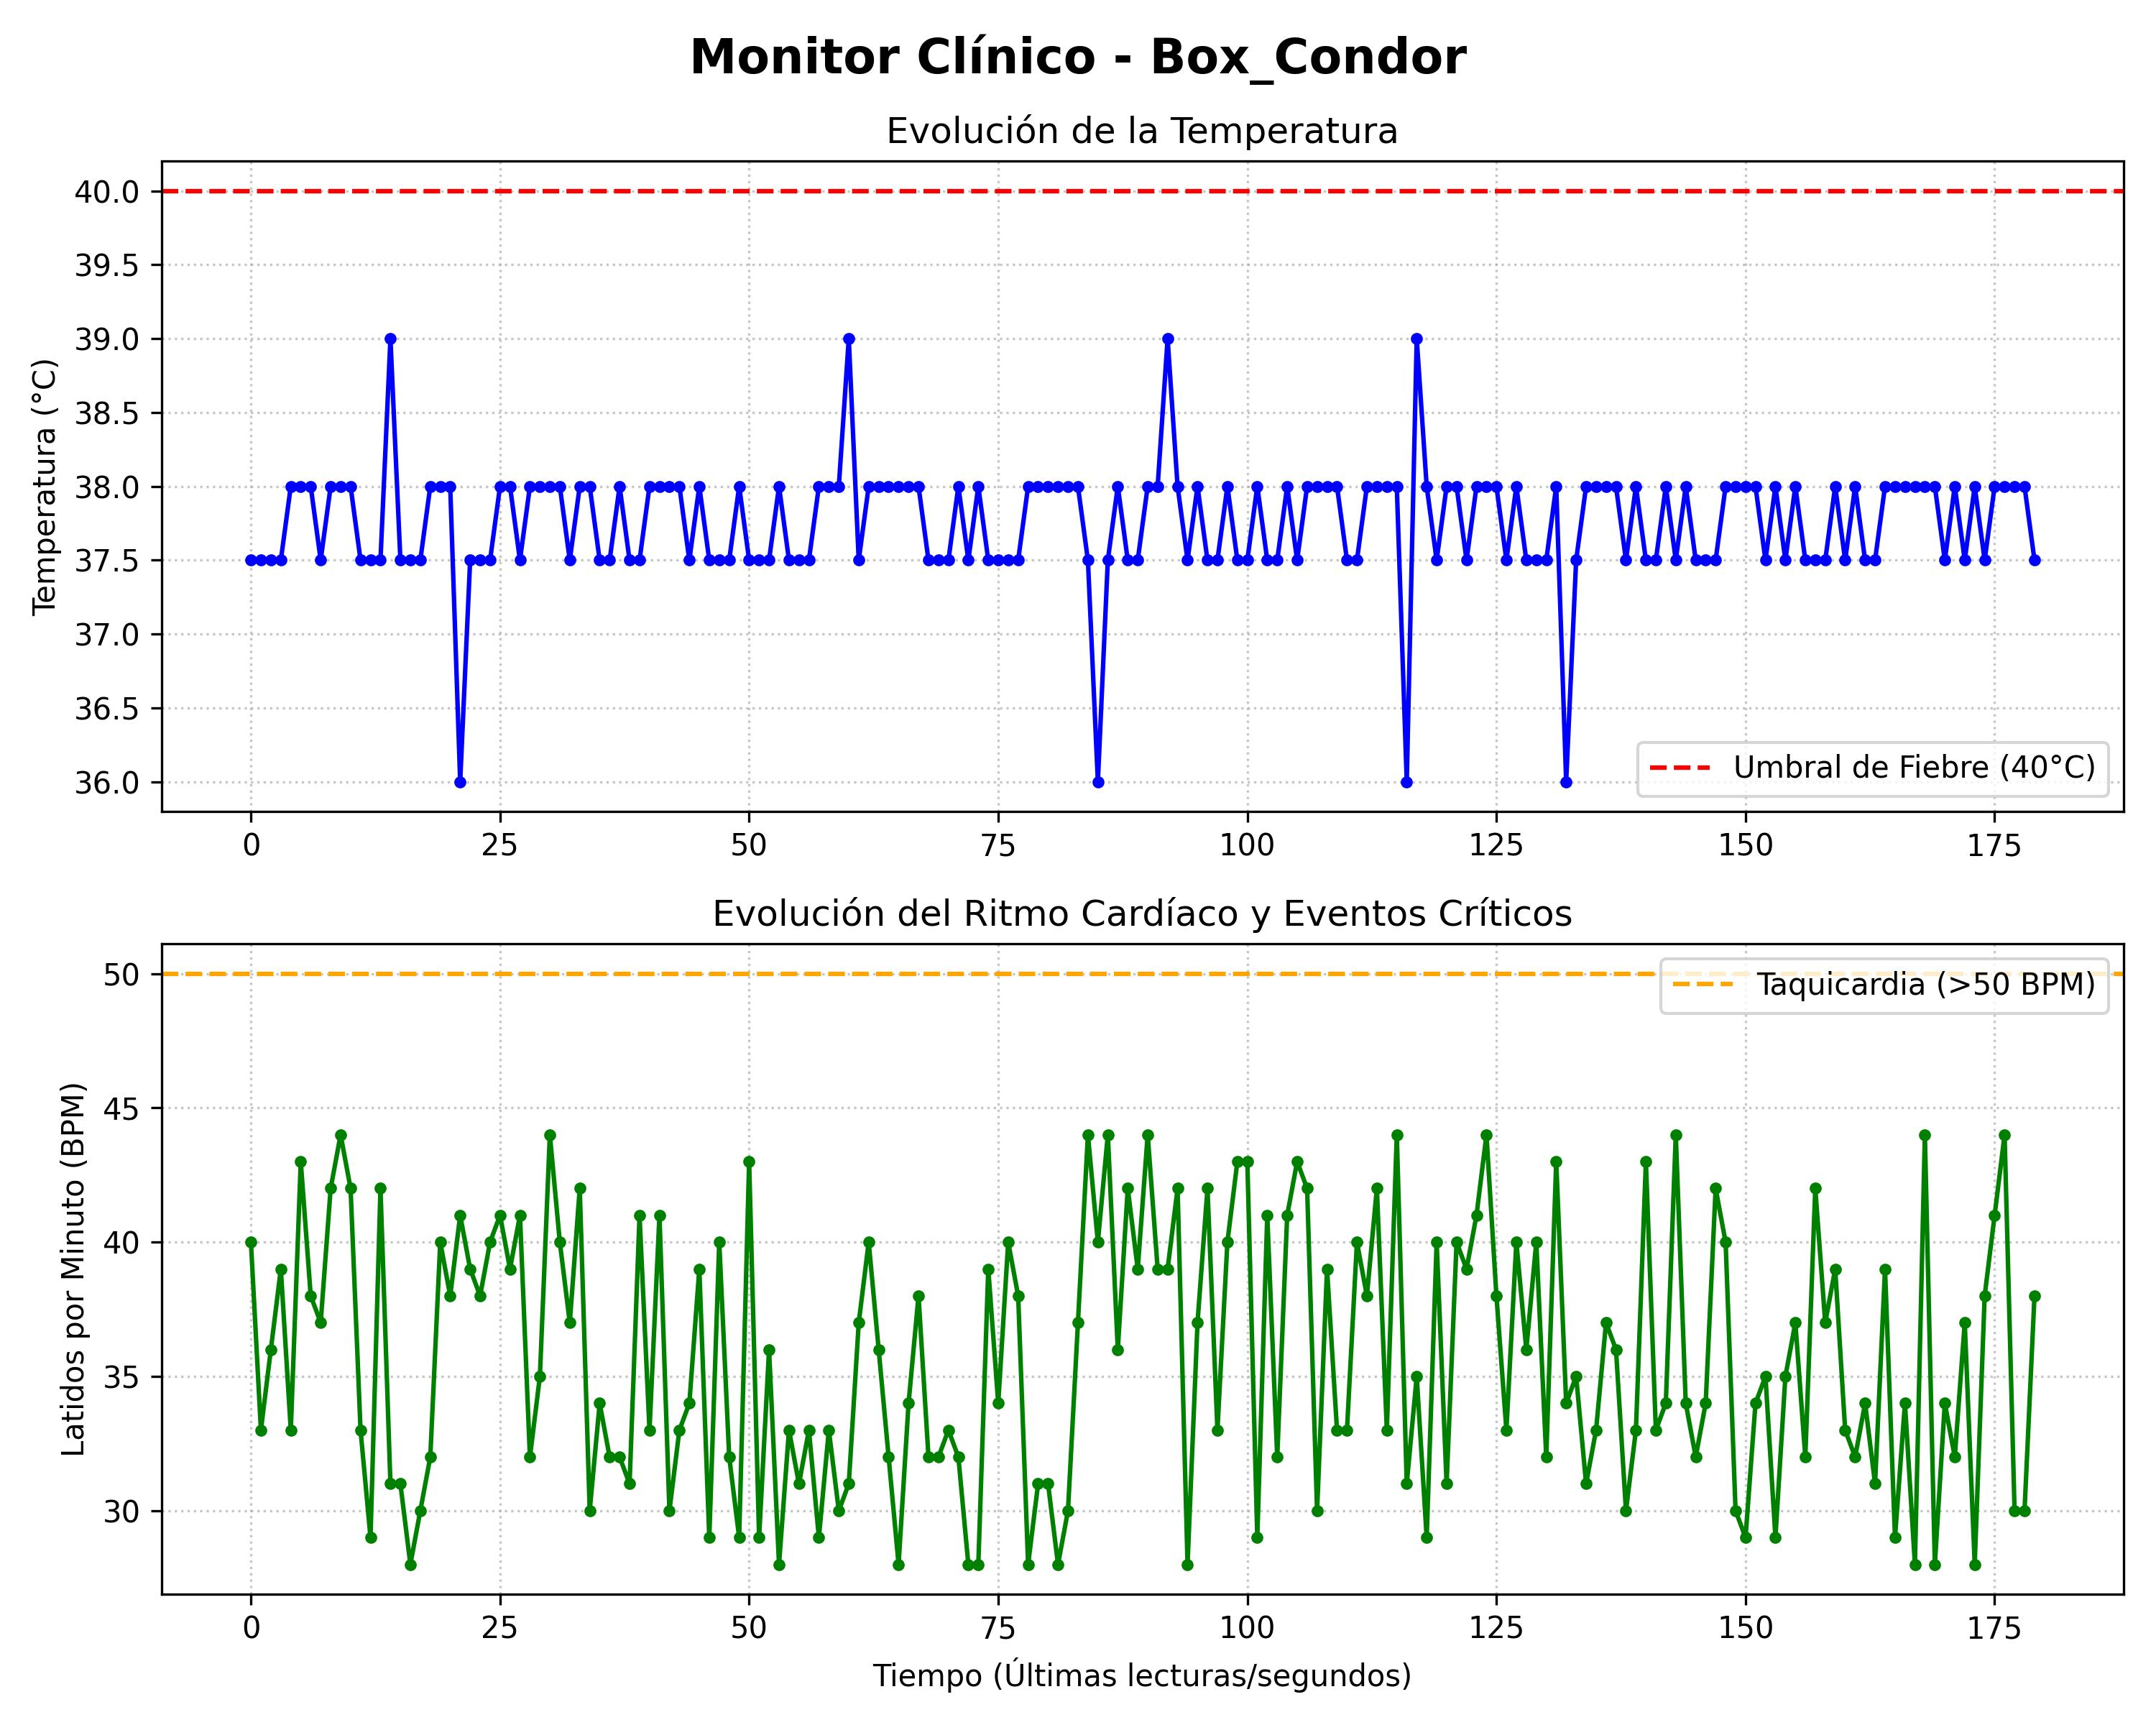
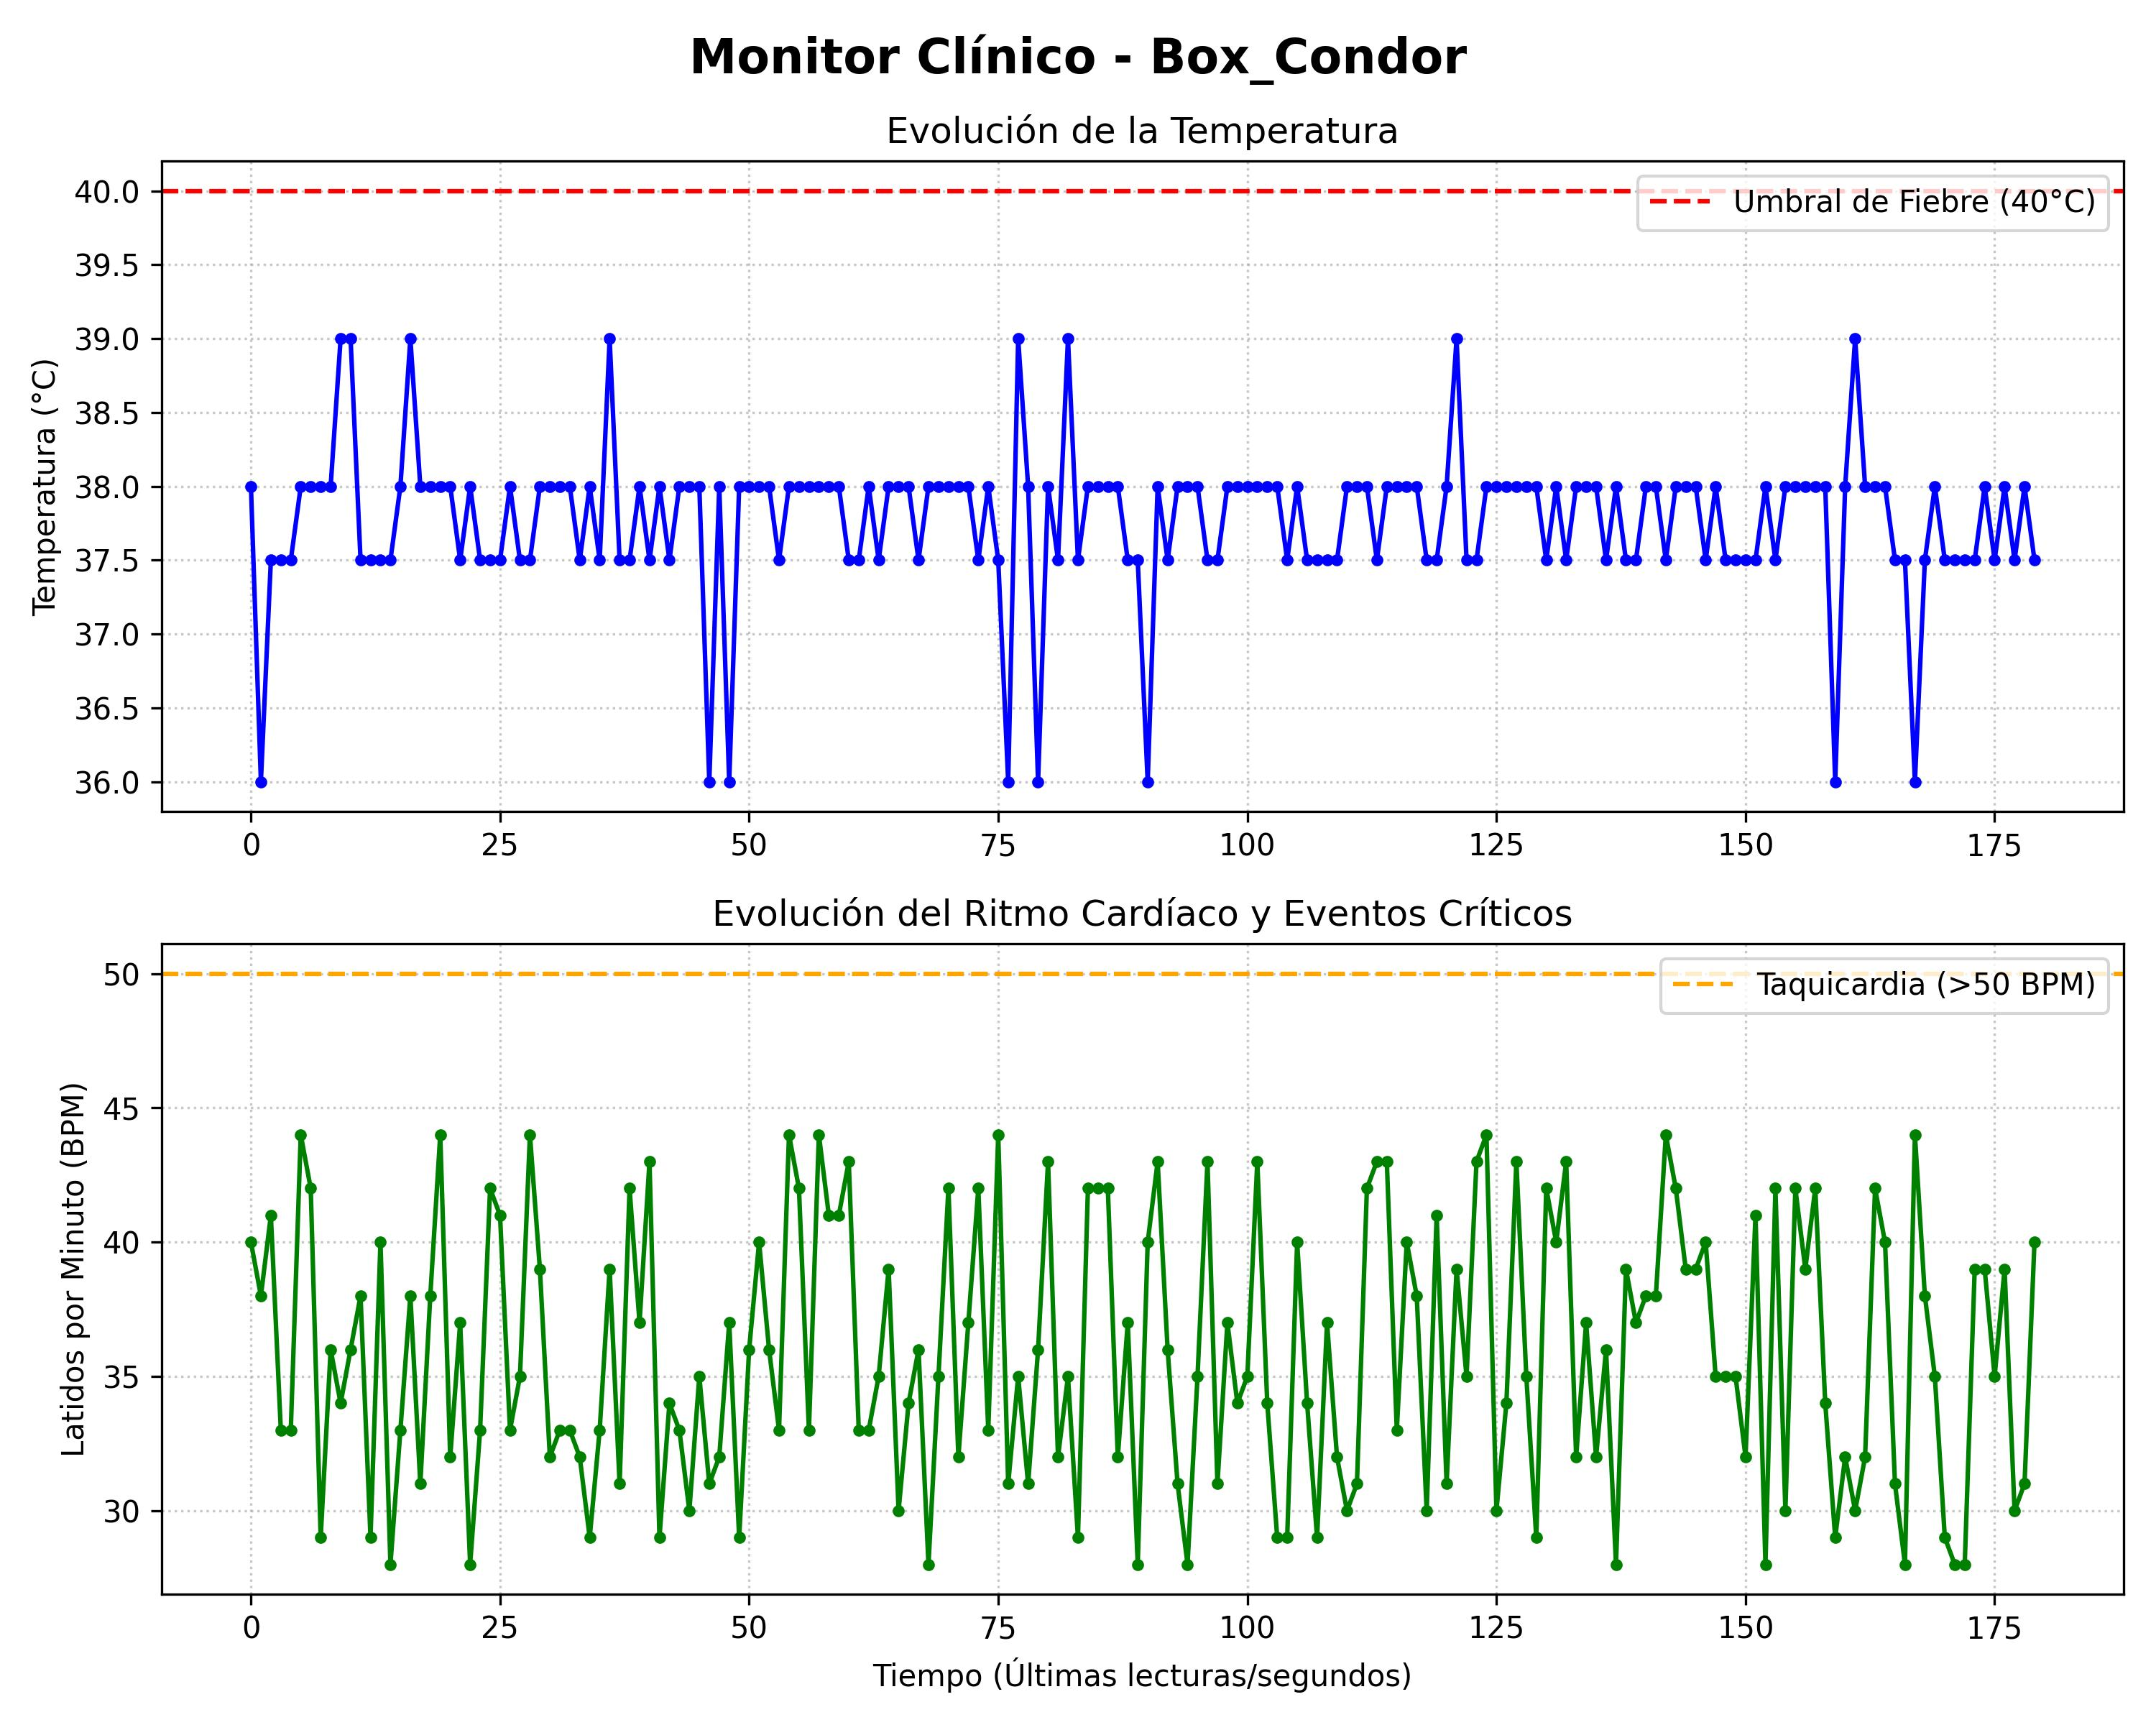
Envio de mails e Implementacion IPv6

diff --git a/src/client/sensor.py b/src/client/sensor.py
@@ -4,7 +4,7 @@ import time
 import random
 import argparse
 
-HOST = '::1'
+HOST = 'localhost'
 PORT = 8080
 
 MOVIMIENTOS = [
@@ -42,32 +42,39 @@ def generar_datos(horse_id, perfil):
         "movimiento": movimiento
     }
 
-def iniciar_sensor(horse_id, perfil, ip_version): #Enciendo el sensor
-    print(f"--- Iniciando Sensor Simulador ---")
-    print(f"Box: {horse_id} | Perfil: {perfil.upper()} | Red: {ip_version.upper()}")
+def iniciar_sensor(horse_id, perfil): # Ya no le pasamos ip_version
+    print(f"--- Iniciando Sensor Simulador ---")    
+    print(f"Box: {horse_id} | Perfil: {perfil.upper()} | Buscando red compatible...")
+        
+    # 1. Le preguntamos al Sistema Operativo qué rutas hay hacia 'localhost' en el puerto 8080
+    opciones = socket.getaddrinfo(HOST, PORT, socket.AF_UNSPEC, socket.SOCK_STREAM)
+    cliente = None
     
-    # Configuramos el socket dependiendo de si es IPv4 o IPv6
-    if ip_version == "ipv4":
-        cliente = socket.socket(socket.AF_INET, socket.SOCK_STREAM)
-        host_conexion = '127.0.0.1' # Localhost en IPv4
-    else:
-        cliente = socket.socket(socket.AF_INET6, socket.SOCK_STREAM)
-        host_conexion = '::1'       # Localhost en IPv6
+    # 2. Probamos las opciones una por una
+    for familia, tipo, protocolo, canonname, direccion in opciones:
+        try:
+            cliente = socket.socket(familia, tipo, protocolo)
+            cliente.connect(direccion)
+            host_conexion = direccion # Guardamos la dirección que funcionó para imprimirla
+            break # Si conectó, salimos del ciclo
+        except OSError:
+            if cliente:
+                cliente.close()
+            cliente = None
+            continue
+            
+    if cliente is None:
+        print("\n[ERROR] No se pudo conectar. ¿Está el servidor encendido?")
+        return
         
     try:
-        # IPv4 usa una tupla de 2 (host, puerto). IPv6 usa una tupla de 4.
-        if ip_version == "ipv4":
-            cliente.connect((host_conexion, PORT)) #Aca llama al puerto 8080 que espera ser llamado en notifier_process
-        else:
-            cliente.connect((host_conexion, PORT, 0, 0)) #Aca tambien
-            
-        print(f"[CONECTADO] Transmitiendo datos a {host_conexion}:{PORT}...\n")
-        # COMO VIAJAN LOS DATOS
+        print(f"[CONECTADO] Transmitiendo datos a la red {host_conexion}...\n")
+        
+        # COMO VIAJAN LOS DATOS 
         while True:
             datos = generar_datos(horse_id, perfil)
-            mensaje_json = json.dumps(datos) #Los empaqueta en JSON (bloque de texto). 
-            cliente.send(mensaje_json.encode('utf-8')) #Lo codifica en utf-8 para que lo entienda sockets.
-            #Se van a los workers
+            mensaje_json = json.dumps(datos) #Los empaqueta en JSON
+            cliente.send(mensaje_json.encode('utf-8')) #Lo codifica en utf-8
             
             alerta_visual = "⚠️" if datos['temperatura'] >= 40.0 or datos['movimiento'] in ["revolcandose", "mirar la panza", "rascar piso"] else "✅"
             print(f"[{alerta_visual} ENVIADO] Temp: {datos['temperatura']}°C | Mov: {datos['movimiento']:<15} | BPM: {datos['bpm']}")
@@ -78,14 +85,13 @@ def iniciar_sensor(horse_id, perfil, ip_version): #Enciendo el sensor
     except KeyboardInterrupt:
         print("\n[APAGANDO] Sensor desconectado.")
     finally:
-        cliente.close()
+        if cliente:
+            cliente.close()
 
 if __name__ == '__main__':
     parser = argparse.ArgumentParser(description="Simulador de Sensores HorseWatch")
     parser.add_argument("--id", required=True, help="Nombre o ID del Box (ej. Box_Luna)")
     parser.add_argument("--perfil", choices=["saludable", "colico"], required=True, help="Perfil de salud del caballo")
-    # Nuevo argumento para probar la red:
-    parser.add_argument("--ipv", choices=["ipv4", "ipv6"], default="ipv6", help="Versión de IP a utilizar")
     
     args = parser.parse_args()
-    iniciar_sensor(args.id, args.perfil, args.ipv)
+    iniciar_sensor(args.id, args.perfil)

diff --git a/src/server/notifier_process.py b/src/server/notifier_process.py
@@ -1,10 +1,18 @@
 import multiprocessing
 import time
+import smtplib
+from email.message import EmailMessage
+from queue import Empty
 
 # 300 segundos = 5 minutos de espera para el veterinario
 COOLDOWN_EMAIL = 300 
 # 10 segundos de espera para no saturar la pantalla con logs locales
 COOLDOWN_LOG = 10 
+
+# --- CONFIGURACIÓN DE CORREO ---
+EMAIL_ORIGEN = "[email redacted]"
+PASSWORD_APP = "awvq pyyv arfa fglk" 
+EMAIL_VETERINARIO = "[email redacted]"
 
 def proceso_notificador(cola_ipc): 
     """Este es el proceso Notificador IPC. Vive esperando alertas."""
@@ -29,6 +37,7 @@ def proceso_notificador(cola_ipc):
             ultimos_logs[horse_id] = ahora # Reseteamos el reloj del log de pantalla
 
         # 2. CONTROL DEL EMAIL AL VETERINARIO
+        # AGREGAR envio de EMAIL REAL (Esperar OK)
         ultimo_email = ultimos_emails.get(horse_id, 0)
 
         # Si ya pasaron 5 minutos desde el último email print email ahora, despues enviar mail
@@ -39,7 +48,40 @@ def proceso_notificador(cola_ipc):
 
 def enviar_notificacion_externa(alerta):
     """
-    Aquí iría el código real de smtplib para el email.
+    Se conecta al servidor SMTP de Google y envía la alerta real.
     """
-    print(">>> [EMAIL ENVIADO AL VETERINARIO] <<<")
-    print(f"Asunto: Emergencia en {alerta['data']['horse_id']}")
+    # Extraemos los datos del diccionario (usamos .get por seguridad por si algún dato falta)
+    horse_id = alerta['data']['horse_id']
+    temperatura = alerta['data'].get('temperatura', 'N/A')
+    movimiento = alerta['data'].get('movimiento', 'N/A')
+    bpm = alerta['data'].get('bpm', 'N/A')
+    mensaje_motivo = alerta.get('mensaje', 'Se detectaron síntomas de cólico.')
+
+    print(f"\n>>> [EMAIL] Conectando con servidor para notificar emergencia en {horse_id}...")
+    
+    # Armamos el texto del mail
+    cuerpo = f"URGENTE: {mensaje_motivo}\n\n"
+    cuerpo += f"Datos Clínicos actuales del paciente:\n"
+    cuerpo += f"- Box: {horse_id}\n"
+    cuerpo += f"- Temperatura: {temperatura}°C\n"
+    cuerpo += f"- Movimiento: {movimiento}\n"
+    cuerpo += f"- Ritmo Cardíaco: {bpm} BPM\n\n"
+    cuerpo += "Por favor, acceda al monitor web para ver el gráfico clínico en tiempo real."
+
+    # Preparamos el sobre del mail
+    msg = EmailMessage()
+    msg.set_content(cuerpo)
+    msg['Subject'] = f'⚠️ EMERGENCIA HORSEWATCH: {horse_id}'
+    msg['From'] = EMAIL_ORIGEN
+    msg['To'] = EMAIL_VETERINARIO
+
+    try:
+        # Enviamos la carta
+        server = smtplib.SMTP('smtp.gmail.com', 587)
+        server.starttls() 
+        server.login(EMAIL_ORIGEN, PASSWORD_APP)
+        server.send_message(msg)
+        server.quit()
+        print(f">>> [✅ EMAIL ENVIADO AL VETERINARIO EXITOSAMENTE] <<<")
+    except Exception as e:
+        print(f">>> [❌ ERROR FATAL EMAIL] No se pudo conectar con Google: {e} <<<")

diff --git a/src/server/gateway.py b/src/server/gateway.py
@@ -23,15 +23,33 @@ def iniciar_gateway():
     # Mutiprocessing para tener propia memoria y espacio, si notificador deja de funcionar los workers siguen funcionando
     proc_notificador.start()
     
-    # 4. Configurar Socket IPv6 (Gateway)
+# 4. Configurar Socket Inteligente (Gateway)
+    puerto = 8080 
     
-    server_socket = socket.socket(socket.AF_INET6, socket.SOCK_STREAM) # AF_INET6 es clave para soportar IPv6
+    # AI_PASSIVE y 'None' significan: "Buscame en mi propia máquina dónde puedo escuchar"
+    opciones = socket.getaddrinfo(None, puerto, socket.AF_UNSPEC, socket.SOCK_STREAM, 0, socket.AI_PASSIVE)
+    server_socket = None
     
-    # Puerto de escucha y bind ("::" significa escuchar en todas las interfaces IPv6)
-    puerto = 8080 #Abre el puerto 8080
-    server_socket.bind(('::', puerto))
-    server_socket.listen(10) # Permite encolar hasta 10 sensores conectándose al mismo milisegundo
-    print(f"\n[GATEWAY ACTIVO] Escuchando conexiones IPv6 en el puerto {puerto}...\n")
+    for familia, tipo, protocolo, canonname, direccion in opciones:
+        try:
+            server_socket = socket.socket(familia, tipo, protocolo)
+            # Esto evita que el puerto quede "trabado" si cerrás y abrís el programa rápido
+            server_socket.setsockopt(socket.SOL_SOCKET, socket.SO_REUSEADDR, 1)
+            server_socket.bind(direccion)
+            server_socket.listen(10) 
+            
+            print(f"\n[GATEWAY ACTIVO] Escuchando de forma independiente del protocolo en: {direccion}\n")
+            break # Si logró abrir el puerto, sale del ciclo
+            
+        except OSError:
+            if server_socket:
+                server_socket.close()
+            server_socket = None
+            continue
+            
+    if server_socket is None:
+        print("\n[ERROR FATAL] El Gateway no pudo abrir el puerto en ninguna interfaz de red.")
+        sys.exit(1)
     
     try:
         while True:

diff --git a/README.md b/README.md
@@ -47,13 +47,13 @@ python3 src/server/gateway.py
 **Paso 2: Conectar un Sensor (Caballo Sano)**
 En una nueva terminal, iniciaremos el simulador para un caballo con un perfil saludable .
 ```bash
-python3 src/client/sensor.py --id Box_Condor --perfil saludable --ipv ipv6
+python3 src/client/sensor.py --id Box_Condor --perfil saludable 
 ```
 
 **Paso 3: Conectar un Sensor (Caballo con Cólico)**
 En una tercera terminal, forzaremos un perfil clínico de riesgo para observar el diagnóstico en tiempo real y el mecanismo anti-spam del notificador.
 ```bash
-python3 src/client/sensor.py --id Box_WhiteBoots --perfil colico --ipv ipv4
+python3 src/client/sensor.py --id Box_WhiteBoots --perfil colico 
 ```
 
-TODAVIA NO IMPLEMENTO DOCKER!!
+TODAVIA NO IMPLEMENTO DOCKER TODAVIA!! (Esperar OK para seguir)